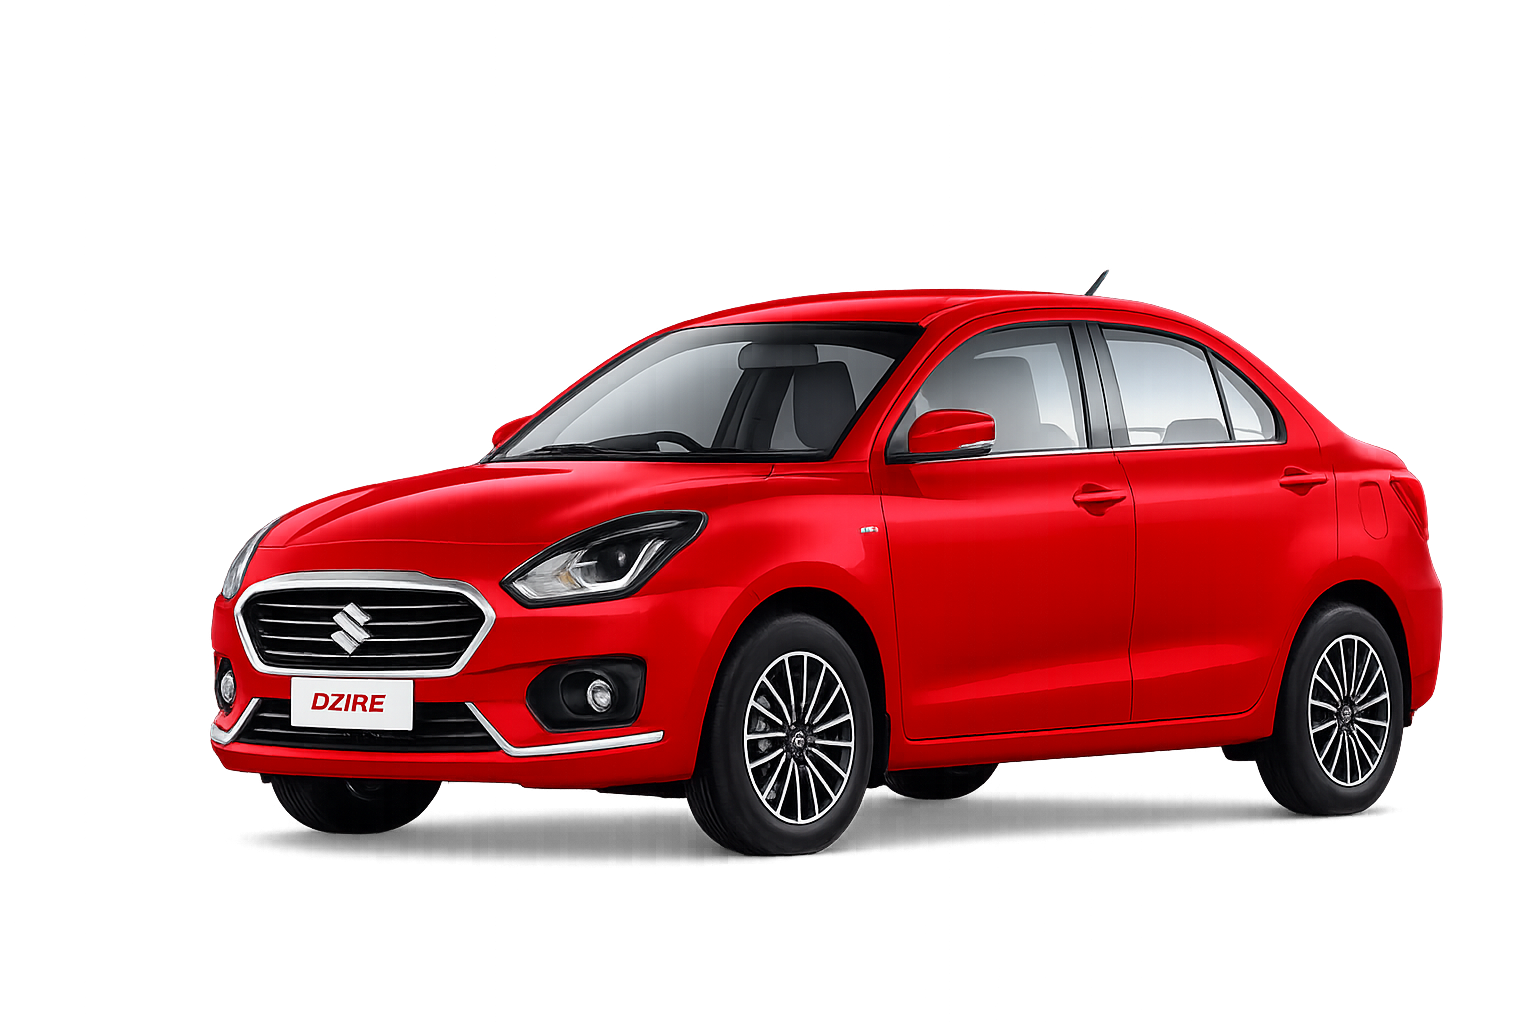
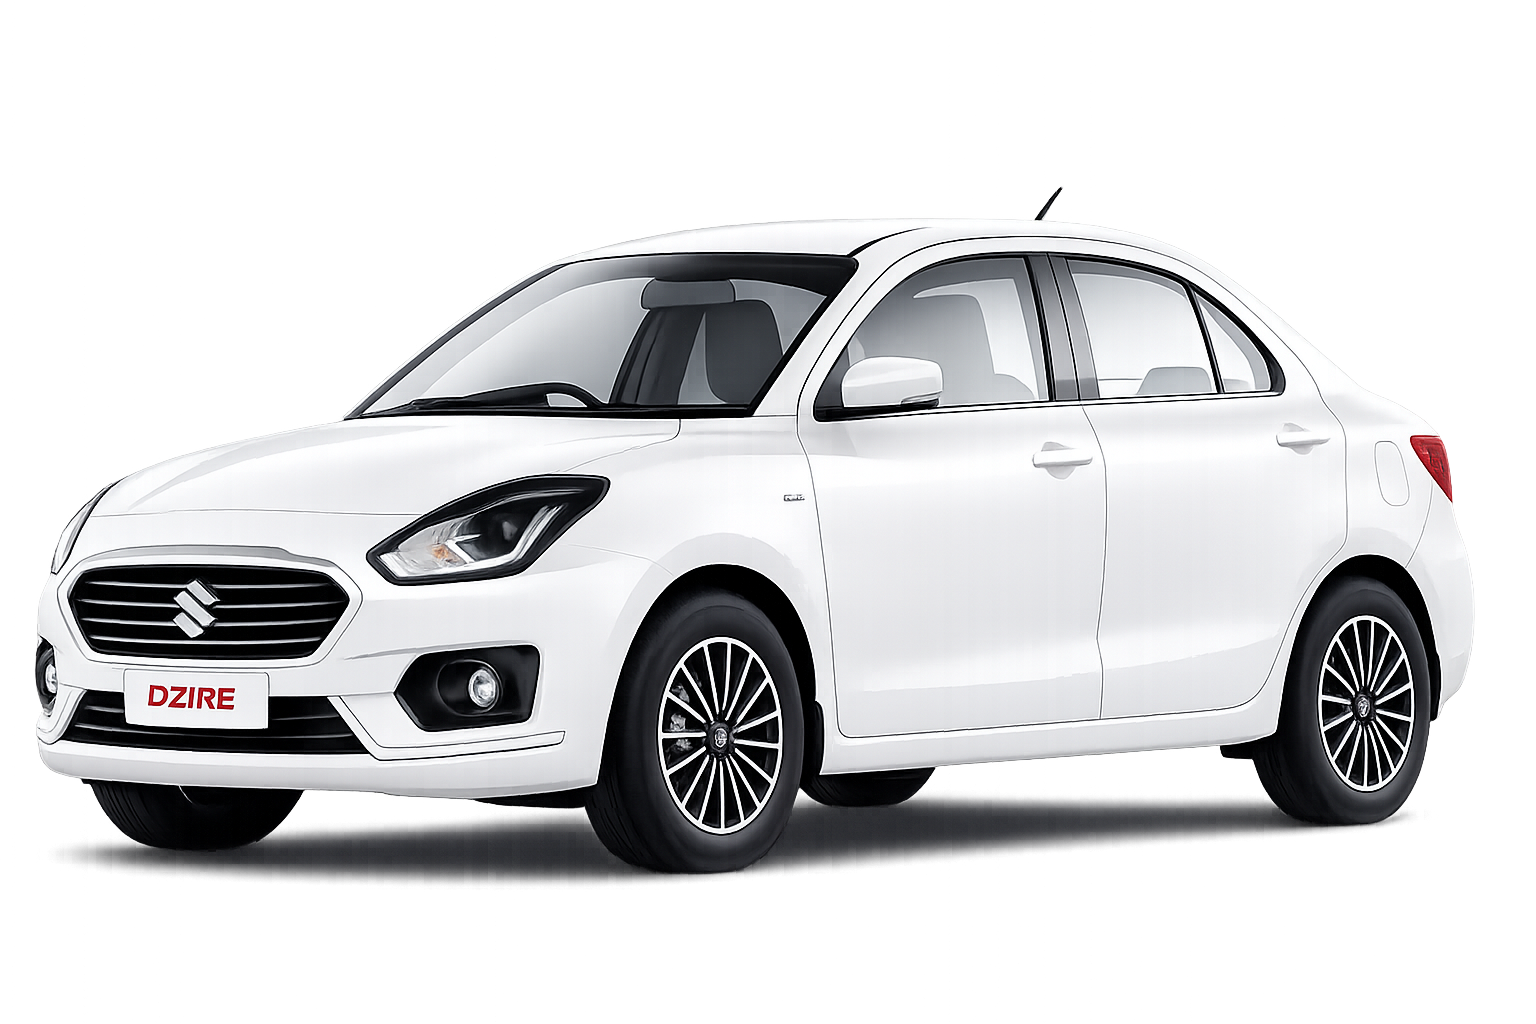
dom

diff --git a/src/components/screens/clients/clients.jsx b/src/components/screens/clients/clients.jsx
@@ -1,0 +1,17 @@
+import PageBanner from '@/components/common/page_banner/page_banner'
+import React from 'react'
+import IndustriesSection from '../home/sections/industries/industries'
+
+const ClientsScreen = () => {
+  return (
+    <div>
+      <PageBanner
+        title="Clients"
+        image="/images/about/banner.png"
+      />
+      <IndustriesSection/>
+    </div>
+  )
+}
+
+export default ClientsScreen

diff --git a/src/pages/clients/index.jsx b/src/pages/clients/index.jsx
@@ -1,0 +1,16 @@
+import ClientsScreen from "@/components/screens/clients/clients";
+import Head from "next/head";
+import React from "react";
+
+const ClientsPage = () => {
+  return (
+    <>
+      <Head>
+        <title>Amigos | Clients</title>
+      </Head>
+      <ClientsScreen />
+    </>
+  );
+};
+
+export default ClientsPage;

diff --git a/src/components/screens/home/sections/banner/banner.module.scss b/src/components/screens/home/sections/banner/banner.module.scss
@@ -7,7 +7,7 @@
       position: absolute;
       height: 100%;
       width: 100%;
-      background-position: center;
+      background-position: top;
       background-repeat: no-repeat;
       background-size: cover;
       // animation: zoomBg 20s infinite alternate;
@@ -26,7 +26,7 @@
       display: flex;
       justify-content: space-between;
       align-items: flex-end;
-      max-width: 1180px;
+      // max-width: 1280px;
       margin: auto;
       padding-bottom: 30px;
 
@@ -47,14 +47,14 @@
           }
 
           .bar {
-            >div {
+            > div {
               height: 2px;
               background-color: $color_1;
               width: 50%;
             }
 
             &.barTop {
-              >div {
+              > div {
                 margin: 0 0 0 auto;
               }
             }
@@ -96,7 +96,6 @@
 
           .left {
             .detail {
-
               // width: 100%;
               p {
                 font-size: 14px;

diff --git a/src/components/screens/home/sections/banner/banner.jsx b/src/components/screens/home/sections/banner/banner.jsx
@@ -24,7 +24,7 @@ const BannerSection = () => {
         ></div>
 
         <div className={styles.cont}>
-          <CustomContainer>
+          <CustomContainer >
             <div className={styles.wrap}>
               <div className={styles.left}>
                 <div className={styles.detail}>